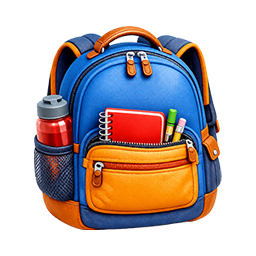
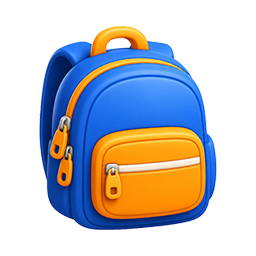
Update Backpack centerpiece image to simplified 3D asset and push WebP conversion

diff --git a/index.html b/index.html
@@ -32,7 +32,7 @@
 
     
 
-    <link rel="stylesheet" href="style.css?v=957">
+    <link rel="stylesheet" href="style.css?v=958">
 
 </head>
 
@@ -703,7 +703,7 @@
                 <!-- 3. Backpack (THE CENTERPIECE) -->
                 <div id="nav-backpack" class="nav-item nav-backpack" onclick="navJump('bpModal')">
                     <span>
-                        <img src="backpack.webp?v=957" alt="Backpack" class="nav-icon-img" />
+                        <img src="backpack.webp?v=958" alt="Backpack" class="nav-icon-img" />
                     </span>
                     Backpack
                 </div>
@@ -1599,31 +1599,31 @@
 
          =========================================== -->
 
-    <script src="js/storage.js?v=957"></script>
+    <script src="js/storage.js?v=958"></script>
 
-    <script src="js/speechcache.js?v=957"></script>
+    <script src="js/speechcache.js?v=958"></script>
 
-    <script src="js/config.js?v=957"></script>
+    <script src="js/config.js?v=958"></script>
 
-    <script src="js/state.js?v=957"></script>
+    <script src="js/state.js?v=958"></script>
 
-    <script src="js/audio.js?v=957"></script>
+    <script src="js/audio.js?v=958"></script>
 
-    <script src="js/ai.js?v=957"></script>
+    <script src="js/ai.js?v=958"></script>
 
-    <script src="js/ui.js?v=957"></script>
+    <script src="js/ui.js?v=958"></script>
 
-    <script src="js/homework.js?v=957"></script>
+    <script src="js/homework.js?v=958"></script>
 
-    <script src="js/game.js?v=957"></script>
+    <script src="js/game.js?v=958"></script>
 
-    <script src="js/print.js?v=957"></script>
+    <script src="js/print.js?v=958"></script>
 
-    <script src="js/spelling.js?v=957"></script>
+    <script src="js/spelling.js?v=958"></script>
 
-    <script src="js/ocr.js?v=957"></script>
+    <script src="js/ocr.js?v=958"></script>
 
-    <script src="js/main.js?v=957"></script>
+    <script src="js/main.js?v=958"></script>
 
             
 

diff --git a/sw.js b/sw.js
@@ -1,26 +1,26 @@
-// sw.js - Service Worker V957 (Modular JS architecture)
-const CACHE_NAME = 'french-fun-v957'; // Bumped: force UI updates on mobile
+// sw.js - Service Worker V958 (Modular JS architecture)
+const CACHE_NAME = 'french-fun-v958'; // Bumped: force UI updates on mobile
 const urlsToCache = [
   './',
-  './index.html?v=957',
-  './style.css?v=957',
+  './index.html?v=958',
+  './style.css?v=958',
   './manifest.json',
   './icon.png',
-  './backpack.webp',
+  './backpack.webp?v=958',
   './KGPrimaryPenmanshipAlt.woff2',
-  './js/storage.js?v=957',
-  './js/speechcache.js?v=957',
-  './js/config.js?v=957',
-  './js/state.js?v=957',
-  './js/audio.js?v=957',
-  './js/ai.js?v=957',
-  './js/ui.js?v=957',
-  './js/homework.js?v=957',
-  './js/game.js?v=957',
-  './js/print.js?v=957',
-  './js/spelling.js?v=957',
-  './js/ocr.js?v=957',
-  './js/main.js?v=957'
+  './js/storage.js?v=958',
+  './js/speechcache.js?v=958',
+  './js/config.js?v=958',
+  './js/state.js?v=958',
+  './js/audio.js?v=958',
+  './js/ai.js?v=958',
+  './js/ui.js?v=958',
+  './js/homework.js?v=958',
+  './js/game.js?v=958',
+  './js/print.js?v=958',
+  './js/spelling.js?v=958',
+  './js/ocr.js?v=958',
+  './js/main.js?v=958'
 ];
 
 // Install event - cache files
